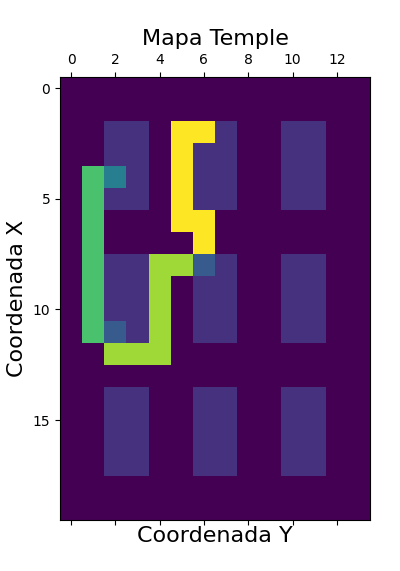
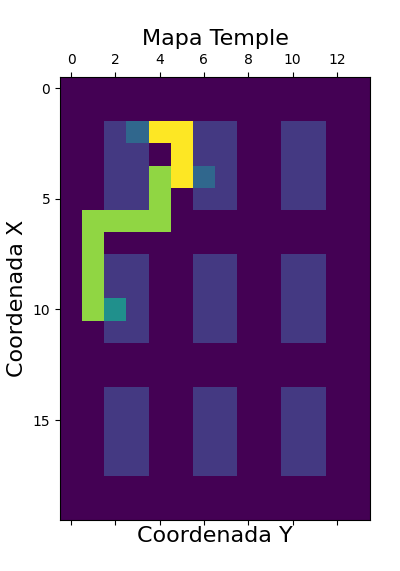
[UPDATE] Resolucion del ejercicio 2

Changed region(s): [[0.18, 0.2084, 0.54, 0.655]]

diff --git a/TP_1/temple.py b/TP_1/temple.py
@@ -1,6 +1,7 @@
 from A_estrella import astar, MostrarMapa, DeterminarCoordenadas
 import Laberinto as Lab
 import itertools
+from PIL import Image
 
 def solucion(A,B):
     # Cast: Conversión string a int
@@ -92,44 +93,71 @@ def Graficar(optima_ruta,ordenes):
     # Mostrar el Mapa con la solucion
     MostrarMapa('mapa_temple.png','Mapa Temple', maze)
 
+    # Output para interfaz gráfica
+    imagen_output = Image.open('mapa_temple.png')
+
+    return imagen_output
 
 
+def Temple(ordenes):
 
-A=5
-B=25
-C=33
-D = 15
+    # Separamos por un espacio
+    ordenes = ordenes.split(",")
+    
+    cant_Filas, cant_columnas,espaciado_alto, alto, espaciado_ancho, ancho = Lab.ExtraccionDatos()
 
-ordenes=[A, B, C, D]
-# Hacemos una lista con las permutaciones
-permutaciones = list(itertools.permutations(ordenes))
-#print(permutaciones)
+    # Obtener caracteristicas del Laberinto
+    cant_estantes = alto*ancho*cant_columnas*cant_Filas
 
-permutacion_it = list(permutaciones[0])
-optima_ruta = Secuencia(permutacion_it)
-optima_permutacion= permutacion_it
-costo_optimo = sum(len(v) for v in optima_ruta)
+    # Convertimos a int cada cadena de texto
+    for i in range(len(ordenes)):
+        ordenes[i] = int(ordenes[i])
+        if(ordenes[i]<0 or ordenes[i]>cant_estantes): # Verificamos que exista ese estante
+            return "Error - No se ha encontrado la ruta para uno de los estantes", "Error - Verifique que exista todos los estantes", None, None
+    
+    # Hacemos una lista con las permutaciones
+    permutaciones = list(itertools.permutations(ordenes))
+    #print(permutaciones)
 
-# Obtenemos la ruta con cada una de las permutaciones
-for i in range(len(permutaciones)):
-    #Cada elemento es una tupla, asi que las convertimos a lista
-    permutacion_it = list(permutaciones[i])
-    ruta_it = Secuencia(permutacion_it)
+    permutacion_it = list(permutaciones[0])
+    optima_ruta = Secuencia(permutacion_it)
+    optima_permutacion= permutacion_it
+    costo_optimo = sum(len(v) for v in optima_ruta)
 
-    costo_it = sum(len(v) for v in ruta_it)
+    # Obtenemos la ruta con cada una de las permutaciones
+    for i in range(len(permutaciones)):
+        #Cada elemento es una tupla, asi que las convertimos a lista
+        permutacion_it = list(permutaciones[i])
+        ruta_it = Secuencia(permutacion_it)
 
-    if(costo_it < costo_optimo):
-        optima_ruta =  ruta_it
-        optima_permutacion = permutacion_it
-        costo_optimo = costo_it
+        costo_it = sum(len(v) for v in ruta_it)
 
-    print("Calculando ruta optima " + str(i+1) + " de " + str(len(permutaciones)) + " con costo " + str(costo_it))
+        if(costo_it < costo_optimo):
+            optima_ruta =  ruta_it
+            optima_permutacion = permutacion_it
+            costo_optimo = costo_it
 
-# Resultados
+        print("Calculando ruta optima " + str(i+1) + " de " + str(len(permutaciones)) + " con costo " + str(costo_it))
 
-print("\nCosto total optimo: ", costo_optimo)
-print("Permutacion optima", optima_permutacion)
-print("Ruta optima")
-print(optima_ruta)
-Graficar(optima_ruta,ordenes)
+    return costo_optimo, optima_permutacion, optima_ruta, Graficar(optima_ruta,ordenes)
+    
+
+
+if __name__ == '__main__': #Para que se pueda usar sin interfaz grafica
+    print("----------------TEMPLE SIMULADO----------------")
+    print("Ingrese la secuencia de pedidos separado por una coma")
+    texto = input("Ordenes: ")
+
+
+    costo_optimo, optima_permutacion, optima_ruta, salida = Temple(texto)
+
+    # Resultados
+    print("\n-----------------------")
+    print("RESULTADOS:")
+    print("\nCosto total óptimo: ", costo_optimo)
+    print("Ruta óptima:", optima_permutacion)
+    print("Secuencia de pasos óptima")
+    print(optima_ruta)
+
+
 

diff --git a/TP_1/gui_ejercicio_2.py b/TP_1/gui_ejercicio_2.py
@@ -1,0 +1,55 @@
+"""
+GUI: Graphical User Interface
+Hacemos uso de Gradio: pip3 install gradio
+"""
+
+import gradio as gr
+from A_estrella import solucion, MostrarMapa, DeterminarCoordenadas
+from temple import Temple
+import Laberinto as Lab
+
+
+cant_Filas, cant_columnas,espaciado_alto, alto, espaciado_ancho, ancho = Lab.ExtraccionDatos()
+
+# Obtener caracteristicas del Laberinto
+maze = Lab.Mapa()
+cant_estantes = alto*ancho*cant_columnas*cant_Filas
+
+# Mostar el Mapa por pantalla
+MostrarMapa('mapa.png','Mapa', maze)
+
+# Descripción del Header
+title = "Resolución de Lista de Pedidos 🗺"
+description = '**Input:** Lista de orden de pedidos, separado cada pedido por una coma.<br>' 
+description += '**Output:** Secuencia óptima, Path óptimo , Mapa con la solución <br>'
+description += '**Características:** El Laberinto tiene '  + str(cant_estantes) +' estantes disponibles'
+
+# Descripción del Footer
+article = '**Desafío:** El robot debe transportar cajas desde distintos estantes de la manera de menor coste total a través de un laberinto predefinido, utilizando el algoritmo de Temple Simulado.<br> '
+article += '**Mario Bustillo 2023 🚀** | [Github](https://github.com/mabustillo14) | [Linkedin](https://www.linkedin.com/in/mario-bustillo/) 🤗 '
+enable_queue=False
+
+# Entrada de datos
+text1 = gr.Textbox(label="Mesa Inicial") # Ordenes
+
+# Salida de datos
+text2 = gr.Textbox(label="Costo del camino óptimo")
+text3 = gr.Textbox(label="Secuencia de pedidos óptima")
+text4 = gr.Textbox(label="Ruta Solución óptima")
+image1 = gr.Image(shape=(140, 140), label="Mapa Solución")
+
+# Ejemplos
+examples = [["5, 25, 33,15"]]
+
+# Planteamiento de la Interfaz
+demo = gr.Interface(
+    fn=Temple, 
+    inputs=[text1], 
+    outputs=[text2,text3,text4,image1],
+    title=title,
+    description=description,
+    article=article, 
+    examples = examples
+    )
+demo.launch(enable_queue=enable_queue,debug=True)
+
